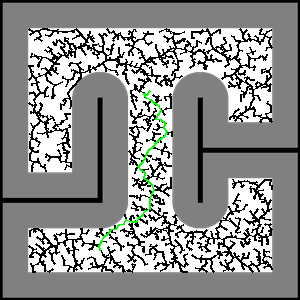
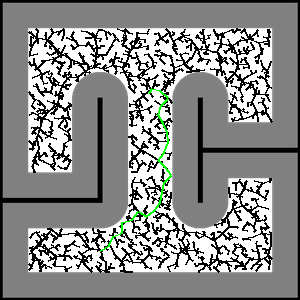
Working waypoint and PF

Changed region(s): [[0.09, 0.09, 0.93, 0.93]]

diff --git a/finalproject.py b/finalproject.py
@@ -23,8 +23,10 @@ class Run:
         self.rrt = rrt.RRT(self.map)
 
         # TODO identify good PID controller gains
+        self.pidDistance = pid_controller.PIDController(
+            1000, 0, 50, [0, 0], [-200, 200], is_angle=False)
         self.pidTheta = pid_controller.PIDController(
-            200, 0, 100, [-10, 10], [-50, 50], is_angle=True)
+            300, 5, 50, [-10, 10], [-200, 200], is_angle=True)
         pos_init = self.create.sim_get_position()
         # TODO identify good particle filter parameters
         # world_map, sd_dst, sd_dir, sd_son, num_particles, init_x, init_y, init_theta
@@ -91,8 +93,9 @@ class Run:
     #                     old_y, self.odometry.theta - old_theta)
 
     def visualize(self):
-        x, y, theta = self.pf.estimate()
-        self.virtual_create.set_pose((x, y, 0.1), theta)
+        best_particle = self.pf.estimate()
+        self.virtual_create.set_pose(
+            (best_particle.x, best_particle.y, 0.1), best_particle.theta)
         data = []
         for particle in self.pf._particles:
             data.extend([particle.x, particle.y, 0.1, particle.theta])
@@ -341,13 +344,9 @@ class Run:
             print("Generating Map...")
             # TODO: get actual goal position (1.0738 m away from robot)
             K = 5000
-            delta = 5
+            delta = 10
             self.rrt.build(x_init, K, delta)            # build map
-            x_goal = self.rrt.nearest_neighbor((150, 91))
-            # # add goal position to map
-            # self.rrt.T.append(rrt.Vertex(x_goal))
-            # x_near = self.rrt.nearest_neighbor(x_goal)  #
-            # x_near.neighbors.append(self.rrt.T[-1])     #
+            x_goal = [150, 91]
             # Generate shortest path with Dijkstra's
             path = self.rrt.shortest_path(x_goal)
 
@@ -371,38 +370,61 @@ class Run:
 
             # TODO these need to be adjusted based on starting position
             self.odometry.x = x_init[0] / 100.0
-            self.odometry.y = x_init[1] / 100.0
-            self.odometry.theta = math.pi / 2
+            self.odometry.y = x_init[1] / 100.0 - 2
+            self.odometry.theta = 0
             base_speed = 100
 
             for p in path:
                 goal_x = p.state[0] / 100.0
-                goal_y = 3.35 - p.state[1] / 100.0
-                print(goal_x, goal_y)
+                goal_y = (300 - p.state[1]) / 100.0
+                print("*************NEW GOAL*************")
                 while True:
+                    print("Goal:", goal_x, goal_y, "   Current:",
+                          self.odometry.x, self.odometry.y)
                     state = self.create.update()
                     if state is not None:
-                        sonar_d = self.sonar.get_distance()
+                        sonar_d = self.sonar.get_distance()  # get sonar reading
+
+                        # update and send odometry to pf and assess particles
                         self.odometry.update(
                             state.leftEncoderCounts, state.rightEncoderCounts)
                         self.pf.move_by(self.odometry.x,
                                         self.odometry.y, self.odometry.theta)
                         self.pf.measure(sonar_d)
-                        best_estimate = self.particle_filter.estimate()
+
+                        # get particle with highest probability
+                        pf_estimate = self.pf.estimate()
+                        best_estimate_x = self.odometry.x
+                        best_estimate_y = self.odometry.y
+                        best_estimate_theta = self.odometry.theta
                         self.virtual_create.set_pose(
-                            (best_estimate.x, best_estimate.y, 0.1), best_estimate.theta)
+                            (pf_estimate.x, pf_estimate.y, 0.1), pf_estimate.theta)
+                        point_cloud = []
+                        for p in self.pf._particles:
+                            point_cloud.append(p.x)
+                            point_cloud.append(p.y)
+                            point_cloud.append(0.1)
+                            point_cloud.append(p.theta)
+                        self.virtual_create.set_point_cloud(point_cloud)
+
                         goal_theta = math.atan2(
-                            goal_y - best_estimate.y, goal_x - best_estimate.x)
-                        theta = math.atan2(math.sin(self.best_estimate.theta), math.cos(
-                            self.best_estimate.theta))
+                            goal_y - best_estimate_y, goal_x - best_estimate_x)
+                        theta = math.atan2(
+                            math.sin(best_estimate_theta), math.cos(best_estimate_theta))
                         output_theta = self.pidTheta.update(
-                            self.best_estimate.theta, goal_theta, self.time.time())
-                        self.create.drive_direct(
-                            int(base_speed+output_theta), int(base_speed-output_theta))
-                        # print("[{},{},{}]".format(self.odometry.x, self.odometry.y, math.degrees(self.odometry.theta)))
+                            best_estimate_theta, goal_theta, self.time.time())
 
                         distance = math.sqrt(
-                            math.pow(goal_x - self.best_estimate.x, 2) + math.pow(goal_y - self.best_estimate.y, 2))
+                            math.pow(goal_x - self.odometry.x, 2) + math.pow(goal_y - self.odometry.y, 2))
+                        output_distance = self.pidDistance.update(
+                            0, distance, self.time.time())
+
+                        # self.create.drive_direct(int(base_speed), int(base_speed))
+                        self.create.drive_direct(
+                            int(output_distance+output_theta), int(output_distance-output_theta))
+                        # print("[{},{},{}]".format(self.odometry.x, self.odometry.y, math.degrees(self.odometry.theta)))
+
+                        #distance = math.sqrt(math.pow(goal_x - best_estimate_x, 2) + math.pow(goal_y - best_estimate_y, 2))
                         if distance < 0.05:
                             break
 

diff --git a/py_files/particle_filter.py b/py_files/particle_filter.py
@@ -70,7 +70,6 @@ class ParticleFilter:
             particle.sensor_reading(sonar_reading, self._map, self.sense_var)
             avg_prob += math.exp(particle.ln_p)
         avg_prob /= len(self._particles)
-        print(avg_prob)
 
         # sum of prob of robot location given each sensor reading
 
@@ -182,7 +181,6 @@ class ParticleFilter:
             particle.sensor_reading(sonar_reading, self._map, self.sense_var)
             avg_prob += math.exp(particle.ln_p)
         avg_prob /= len(self._particles)
-        print(avg_prob)
 
         # sum of prob of robot location given each sensor reading
 

diff --git a/py_files/rrt.py b/py_files/rrt.py
@@ -53,6 +53,13 @@ class RRT:
             x_near.neighbors.append(self.T[-1])
 
     def shortest_path(self, goal):
+
+        goal_vertex = Vertex(goal)
+
+        x_near = self.nearest_neighbor(goal_vertex.state)
+        self.T.append(goal_vertex)
+        x_near.neighbors.append(self.T[-1])
+
         dist = dict()
         prev = dict()
         Q = []
@@ -89,7 +96,7 @@ class RRT:
 
         # find solution
         S = []
-        u = goal
+        u = goal_vertex
         while prev[u] is not None:
             S.insert(0, u)
             u = prev[u]
